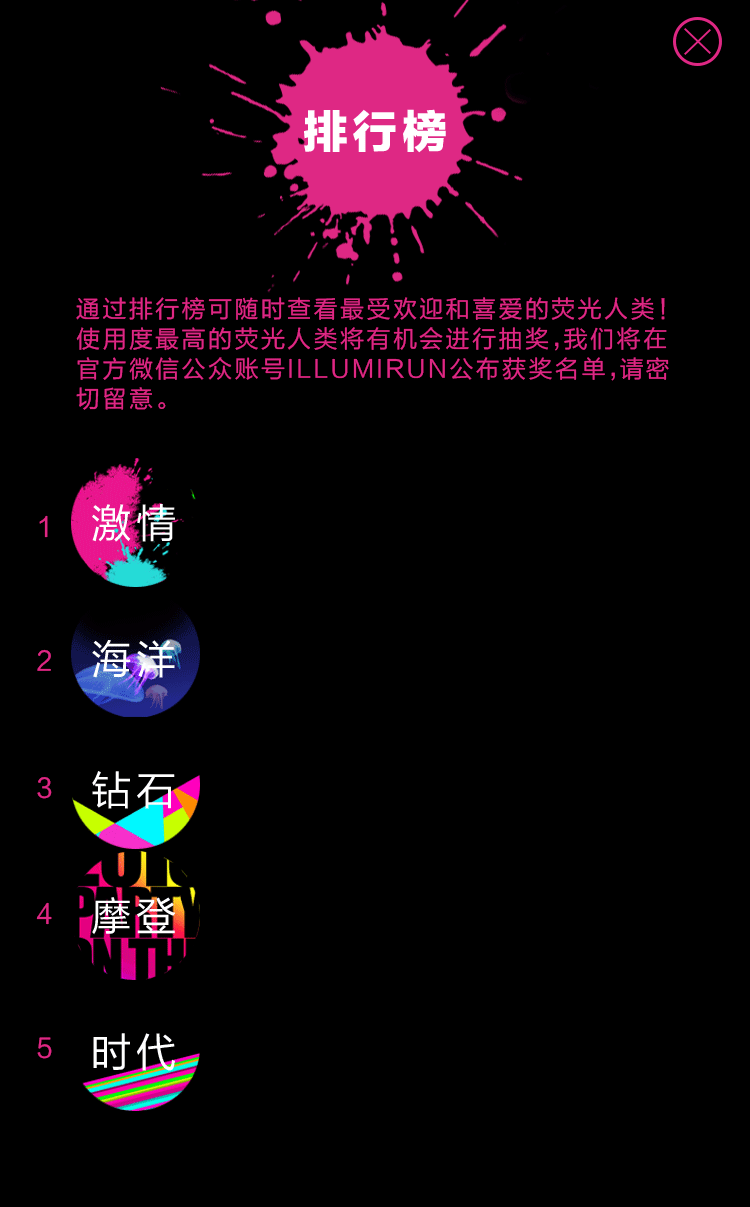
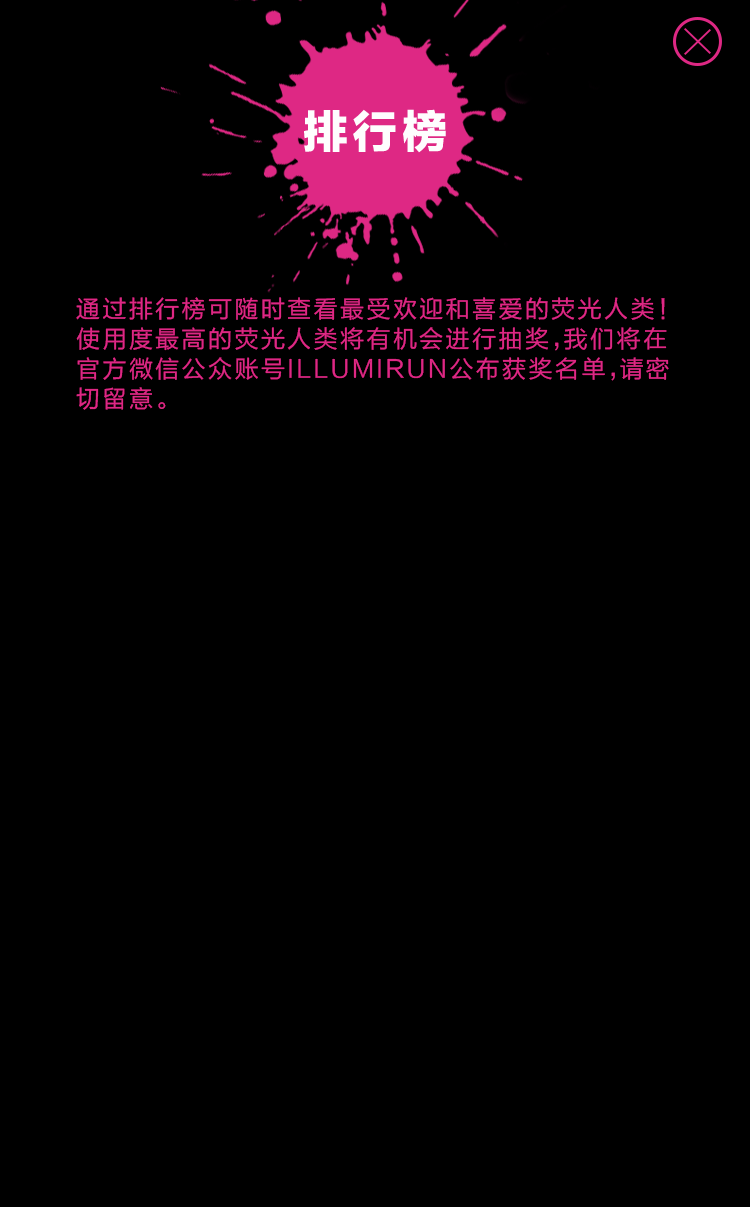
update

diff --git a/src/app/illumirun-201501/share.src.html b/src/app/illumirun-201501/share.src.html
@@ -14,60 +14,85 @@ document.write([
     <!-- 排行榜-->
     <div class="ranklist-bg" style="color: white;">
         <div id="btn-ranklist-close" style="height: 10%;width: 15%;position:absolute;top:0;right:0" onclick="document.getElementById('dialog-ranklist').style.display='none'"></div>
-        <div >
+        <div>
             <!-- 激情 -->
             <div class="rank-item rank-item-jiqing">
-                <div class="rank-item-txt">
-                    <div id="rank-number-jiqing" style="display:inline">
-                        0
-                    </div>
+                <div style="float:left;width:60px;">
+                    <img src="./image/ranklist_jiqing.png" height="50" width="60">
                 </div>
-                <div style="height: 6px;border: 1px solid #FF0082;border-radius: 5px;">
-                    <div id="rank-rating-jiqing" style="background:#FF0082;width:0%;height:100%"></div>
+                <div style="float: right;width: 58%;">
+                    <div class="rank-item-txt">
+                        <div id="rank-number-jiqing" style="display:inline">
+                            0
+                        </div>
+                    </div>
+                    <div style="height: 6px;border: 1px solid #FF0082;border-radius: 5px;">
+                        <div id="rank-rating-jiqing" style="background:#FF0082;width:0%;height:100%"></div>
+                    </div>
                 </div>
             </div>
             <!-- 海洋 -->
             <div class="rank-item rank-item-haiyang">
-                <div class="rank-item-txt">
-                    <div id="rank-number-haiyang" style="display:inline">
-                        0
-                    </div>
+                <div style="float:left;width:60px;">
+                    <img src="./image/ranklist_haiyang.png" height="50" width="60">
                 </div>
-                <div style="height: 6px;border: 1px solid #FF0082;border-radius: 5px;">
-                    <div id="rank-rating-haiyang" style="background:#FF0082;width:0%;height:100%"></div>
+                <div style="float: right;width: 58%;">
+                    <div class="rank-item-txt">
+                        <div id="rank-number-haiyang" style="display:inline">
+                            0
+                        </div>
+                    </div>
+                    <div style="height: 6px;border: 1px solid #FF0082;border-radius: 5px;">
+                        <div id="rank-rating-haiyang" style="background:#FF0082;width:0%;height:100%"></div>
+                    </div>
                 </div>
             </div>
             <!-- 钻石 -->
             <div class="rank-item rank-item-zuanshi">
-                <div class="rank-item-txt">
-                    <div id="rank-number-zuanshi" style="display:inline">
-                        0
-                    </div>
+                <div style="float:left;width:60px;">
+                    <img src="./image/ranklist_zuanshi.png" height="50" width="60">
                 </div>
-                <div style="height: 6px;border: 1px solid #FF0082;border-radius: 5px;">
-                    <div id="rank-rating-zuanshi" style="background:#FF0082;width:0%;height:100%"></div>
+                <div style="float: right;width: 58%;">
+                    <div class="rank-item-txt">
+                        <div id="rank-number-zuanshi" style="display:inline">
+                            0
+                        </div>
+                    </div>
+                    <div style="height: 6px;border: 1px solid #FF0082;border-radius: 5px;">
+                        <div id="rank-rating-zuanshi" style="background:#FF0082;width:0%;height:100%"></div>
+                    </div>
                 </div>
             </div>
             <!-- 摩登 -->
             <div class="rank-item rank-item-modeng">
-                <div class="rank-item-txt">
-                    <div id="rank-number-modeng" style="display:inline">
-                        0
-                    </div>
+                <div style="float:left;width:60px;">
+                    <img src="./image/ranklist_modeng.png" height="50" width="60">
                 </div>
-                <div style="height: 6px;border: 1px solid #FF0082;border-radius: 5px;">
-                    <div id="rank-rating-modeng" style="background:#FF0082;width:0%;height:100%"></div>
+                <div style="float: right;width: 58%;">
+                    <div class="rank-item-txt">
+                        <div id="rank-number-modeng" style="display:inline">
+                            0
+                        </div>
+                    </div>
+                    <div style="height: 6px;border: 1px solid #FF0082;border-radius: 5px;">
+                        <div id="rank-rating-modeng" style="background:#FF0082;width:0%;height:100%"></div>
+                    </div>
                 </div>
             </div>
             <!-- 时代 -->
             <div class="rank-item rank-item-shidai">
-                <div class="rank-item-txt">
-                    <div id="rank-number-shidai" style="display:inline">
-                        0
-                    </div>
+                <div style="float:left;width:60px;">
+                    <img src="./image/ranklist_shidai.png" height="50" width="60">
                 </div>
-                <div style="height: 6px;border: 1px solid #FF0082;border-radius: 5px;">
-                    <div id="rank-rating-shidai" style="background:#FF0082;width:0%;height:100%"></div>
+                <div style="float: right;width: 58%;">
+                    <div class="rank-item-txt">
+                        <div id="rank-number-shidai" style="display:inline">
+                            0
+                        </div>
+                    </div>
+                    <div style="height: 6px;border: 1px solid #FF0082;border-radius: 5px;">
+                        <div id="rank-rating-shidai" style="background:#FF0082;width:0%;height:100%"></div>
+                    </div>
                 </div>
             </div>
         </div>

diff --git a/src/app/illumirun-201501/style/share.css b/src/app/illumirun-201501/style/share.css
@@ -281,8 +281,8 @@ body {
 .rank-item {
     position: absolute;
     top: 42%;
-    left: 30%;
-    width: 58%;
+    left: 10%;
+    width: 70%;
     height: 40px;
 }
 
